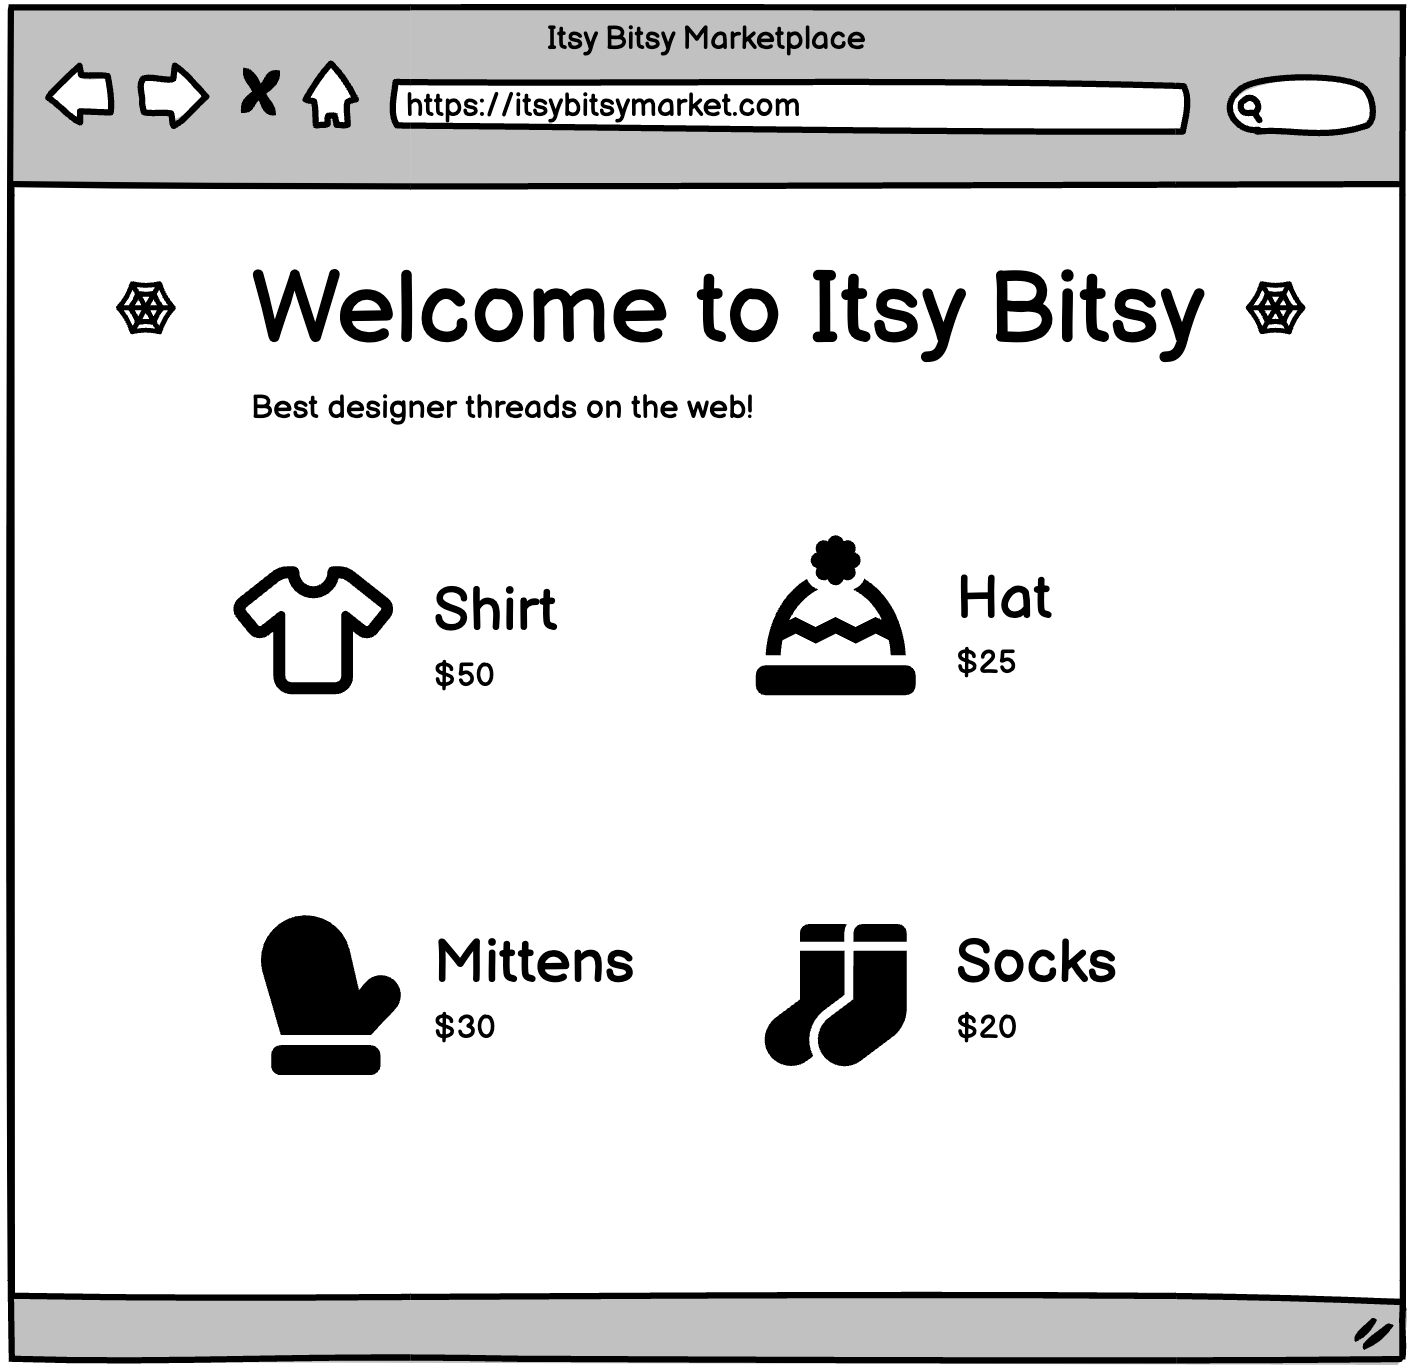
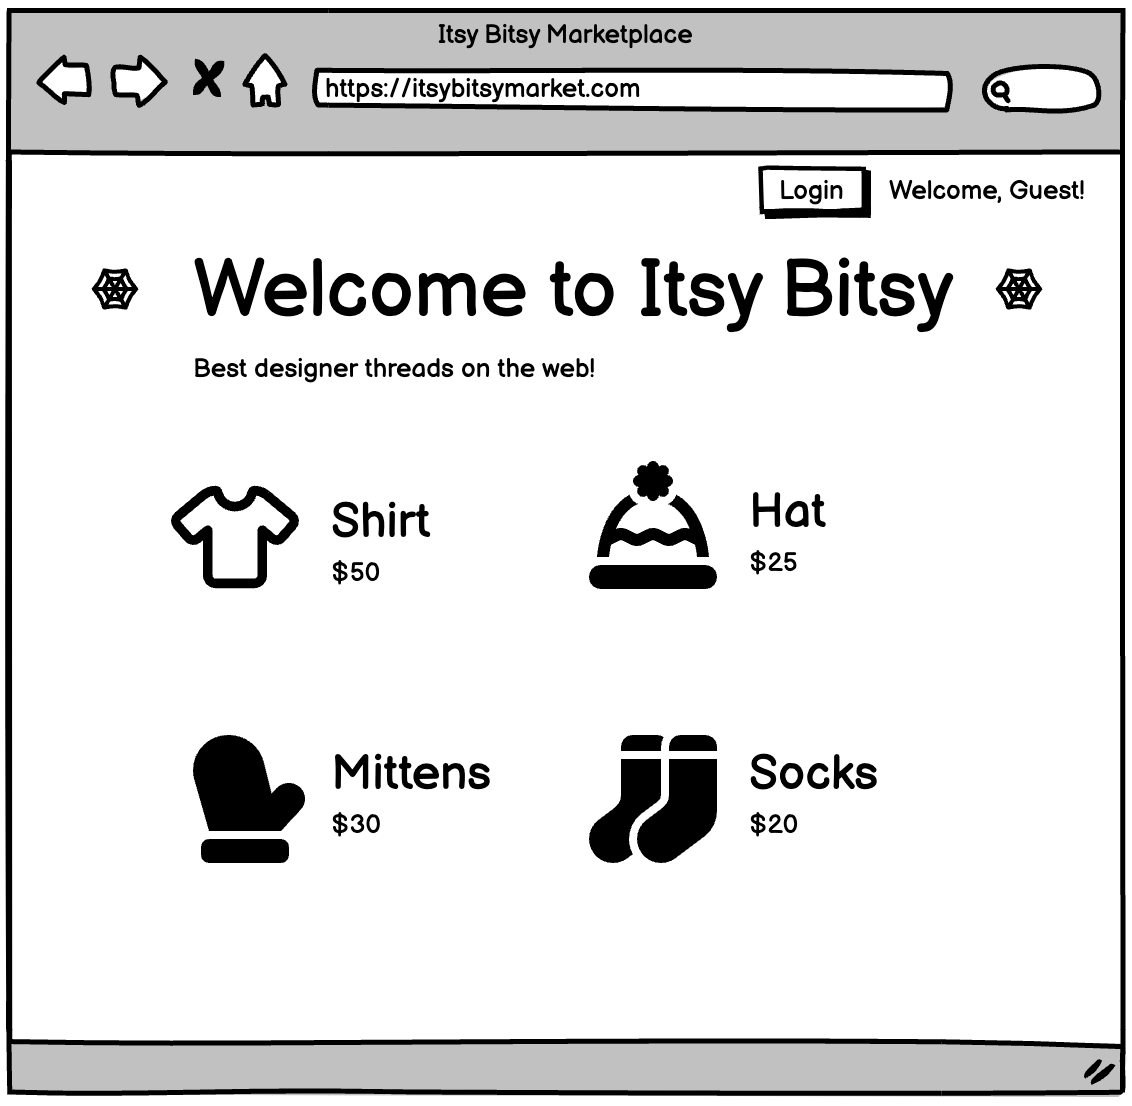
Updates to APM academy page (#414)
* Fixes Joe's testimonial spacing

* Added additional testimonials

* Added additional testimonials

* Fixed new LinkedIn testimonial links

* Update Itsy Bitsy product screens

* Update Itsy Bitsy product screens

* Update Itsy Bitsy product screens

---------

diff --git a/src/program-management-with-jira/2-product-overview.md b/src/program-management-with-jira/2-product-overview.md
@@ -23,6 +23,11 @@ Existing MVP
 
 The basic Itsy Bitsy site has been built with a simple product selection and ordering workflow. In addition to the home page shown above, we have:
 
+### User Profile page (when logged in)
+
+<img src="../static/img/program-management-with-jira/product-overview/user-profile.png"
+  class="content-400-800-shadow"/>
+
 ### Product Details page for each product
 
 <img src="../static/img/program-management-with-jira/product-overview/product-details.png"
